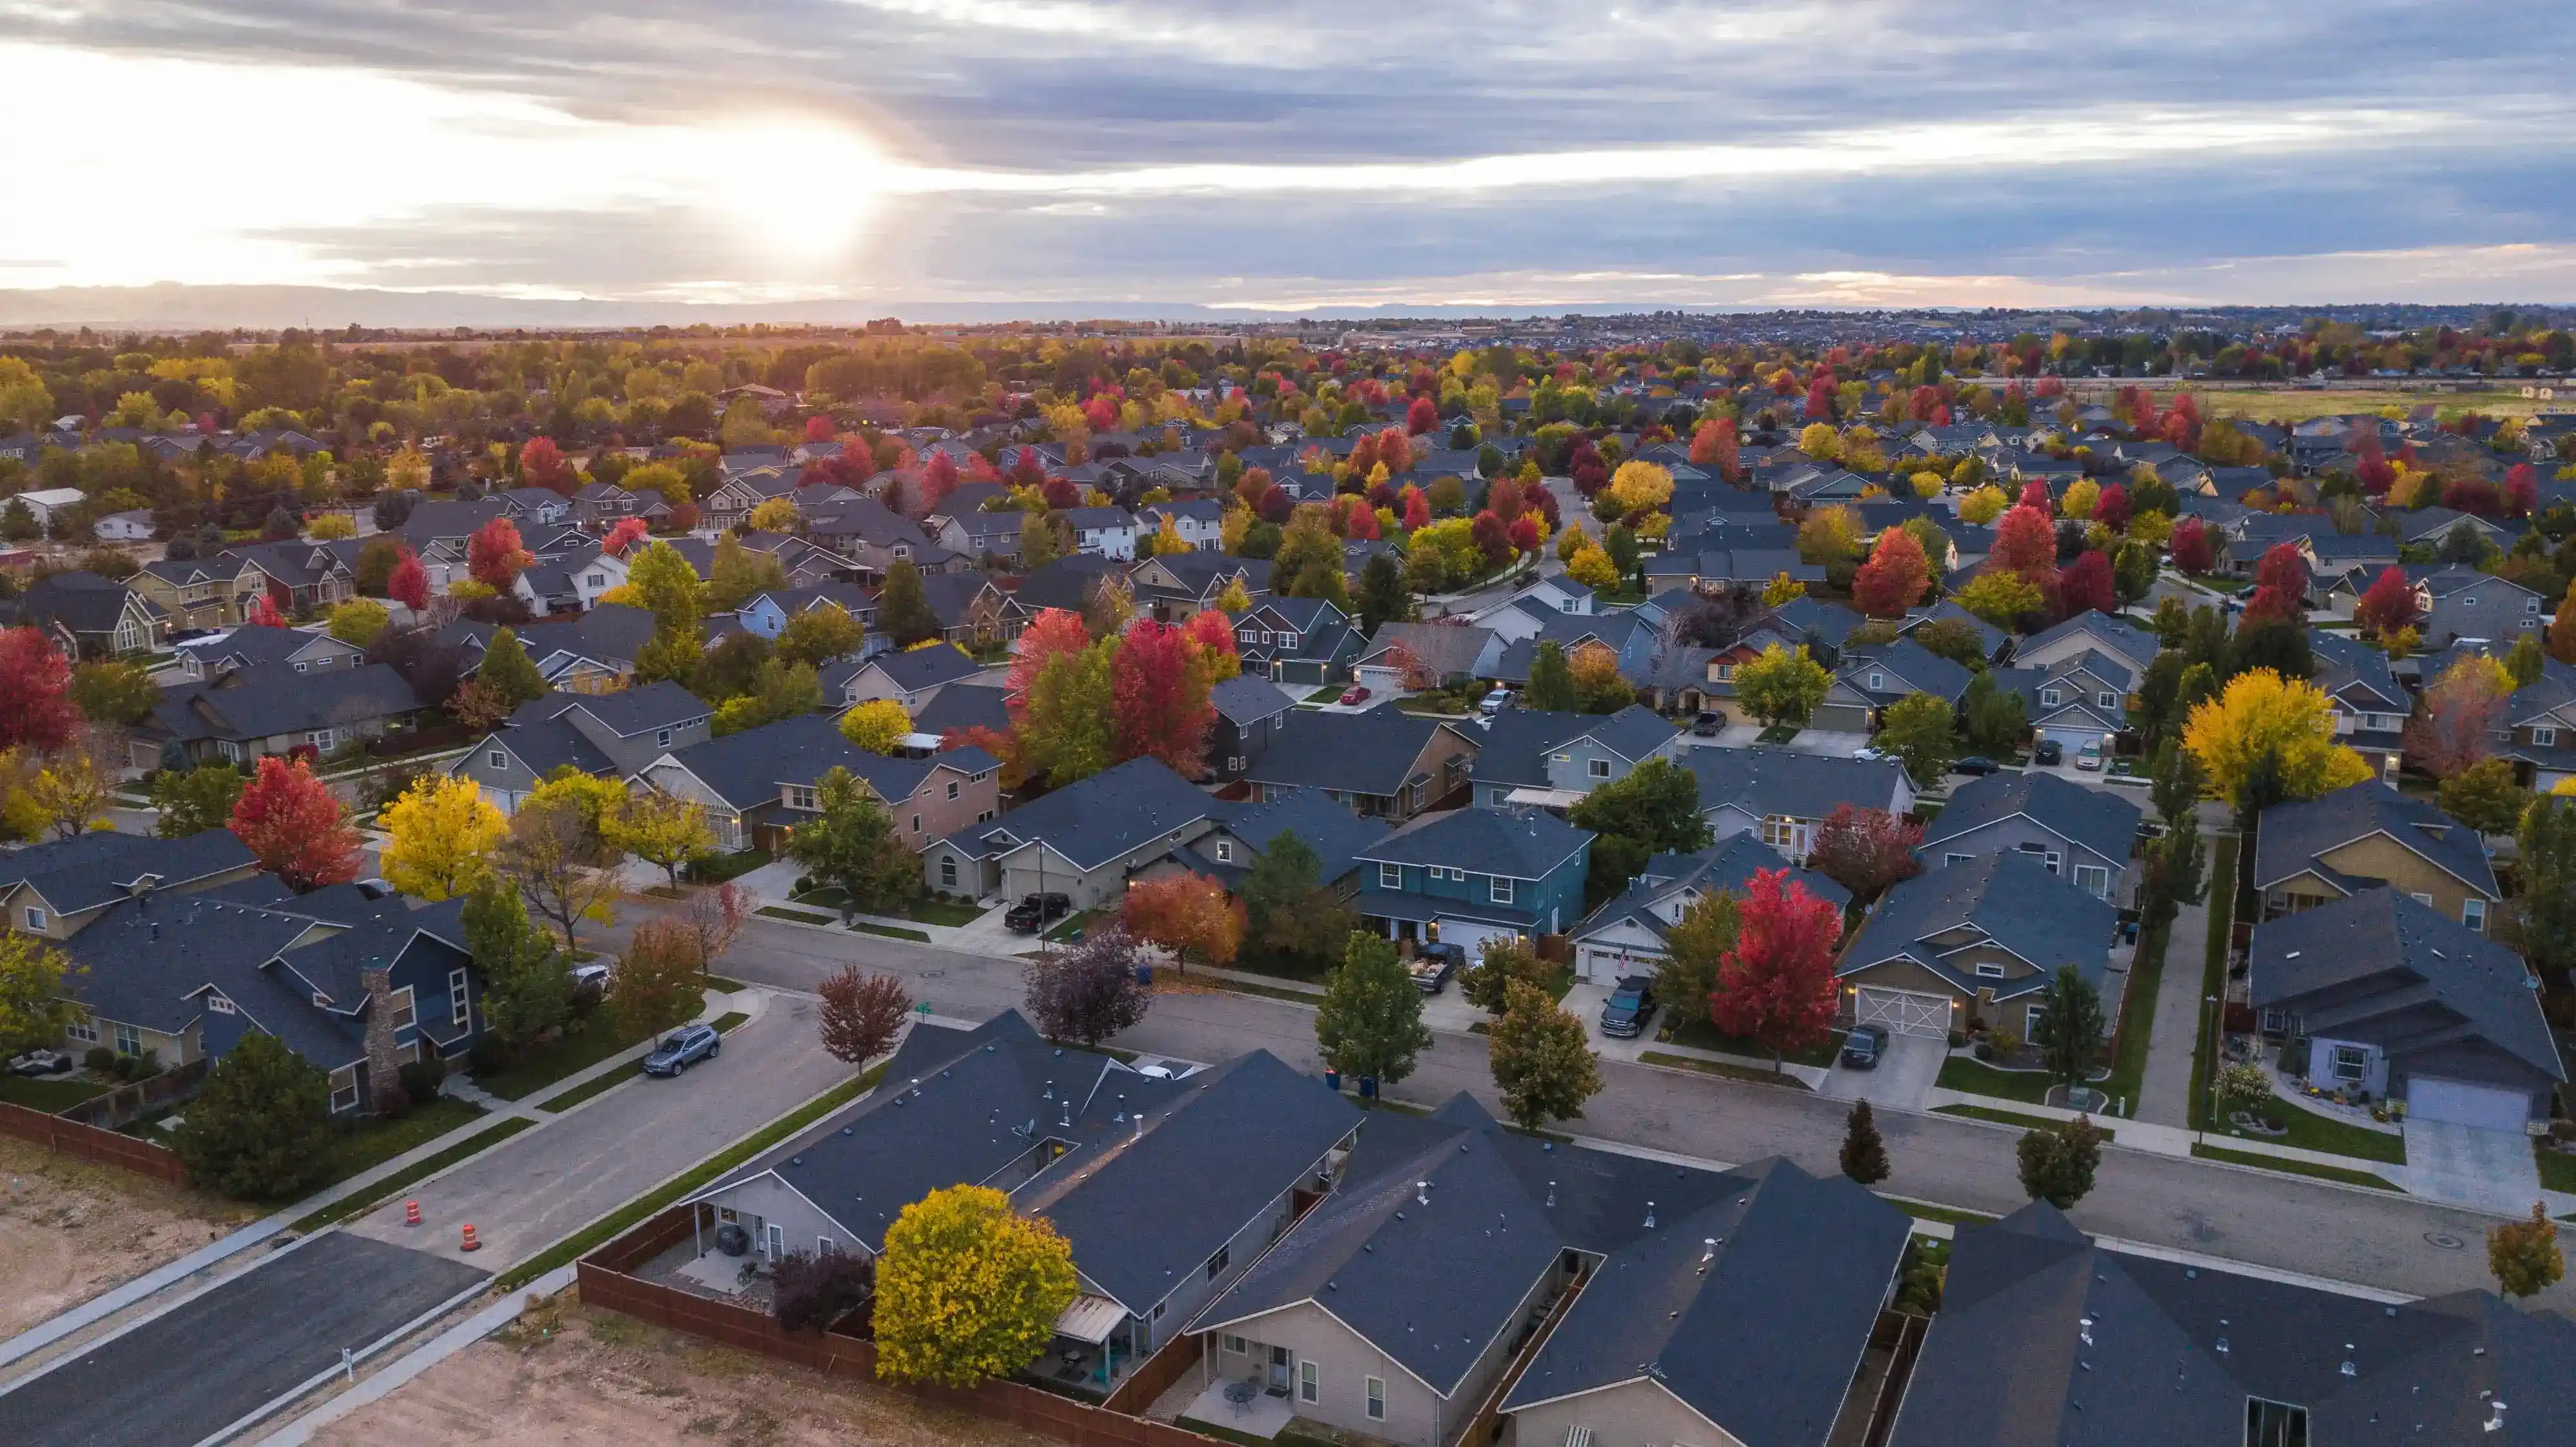
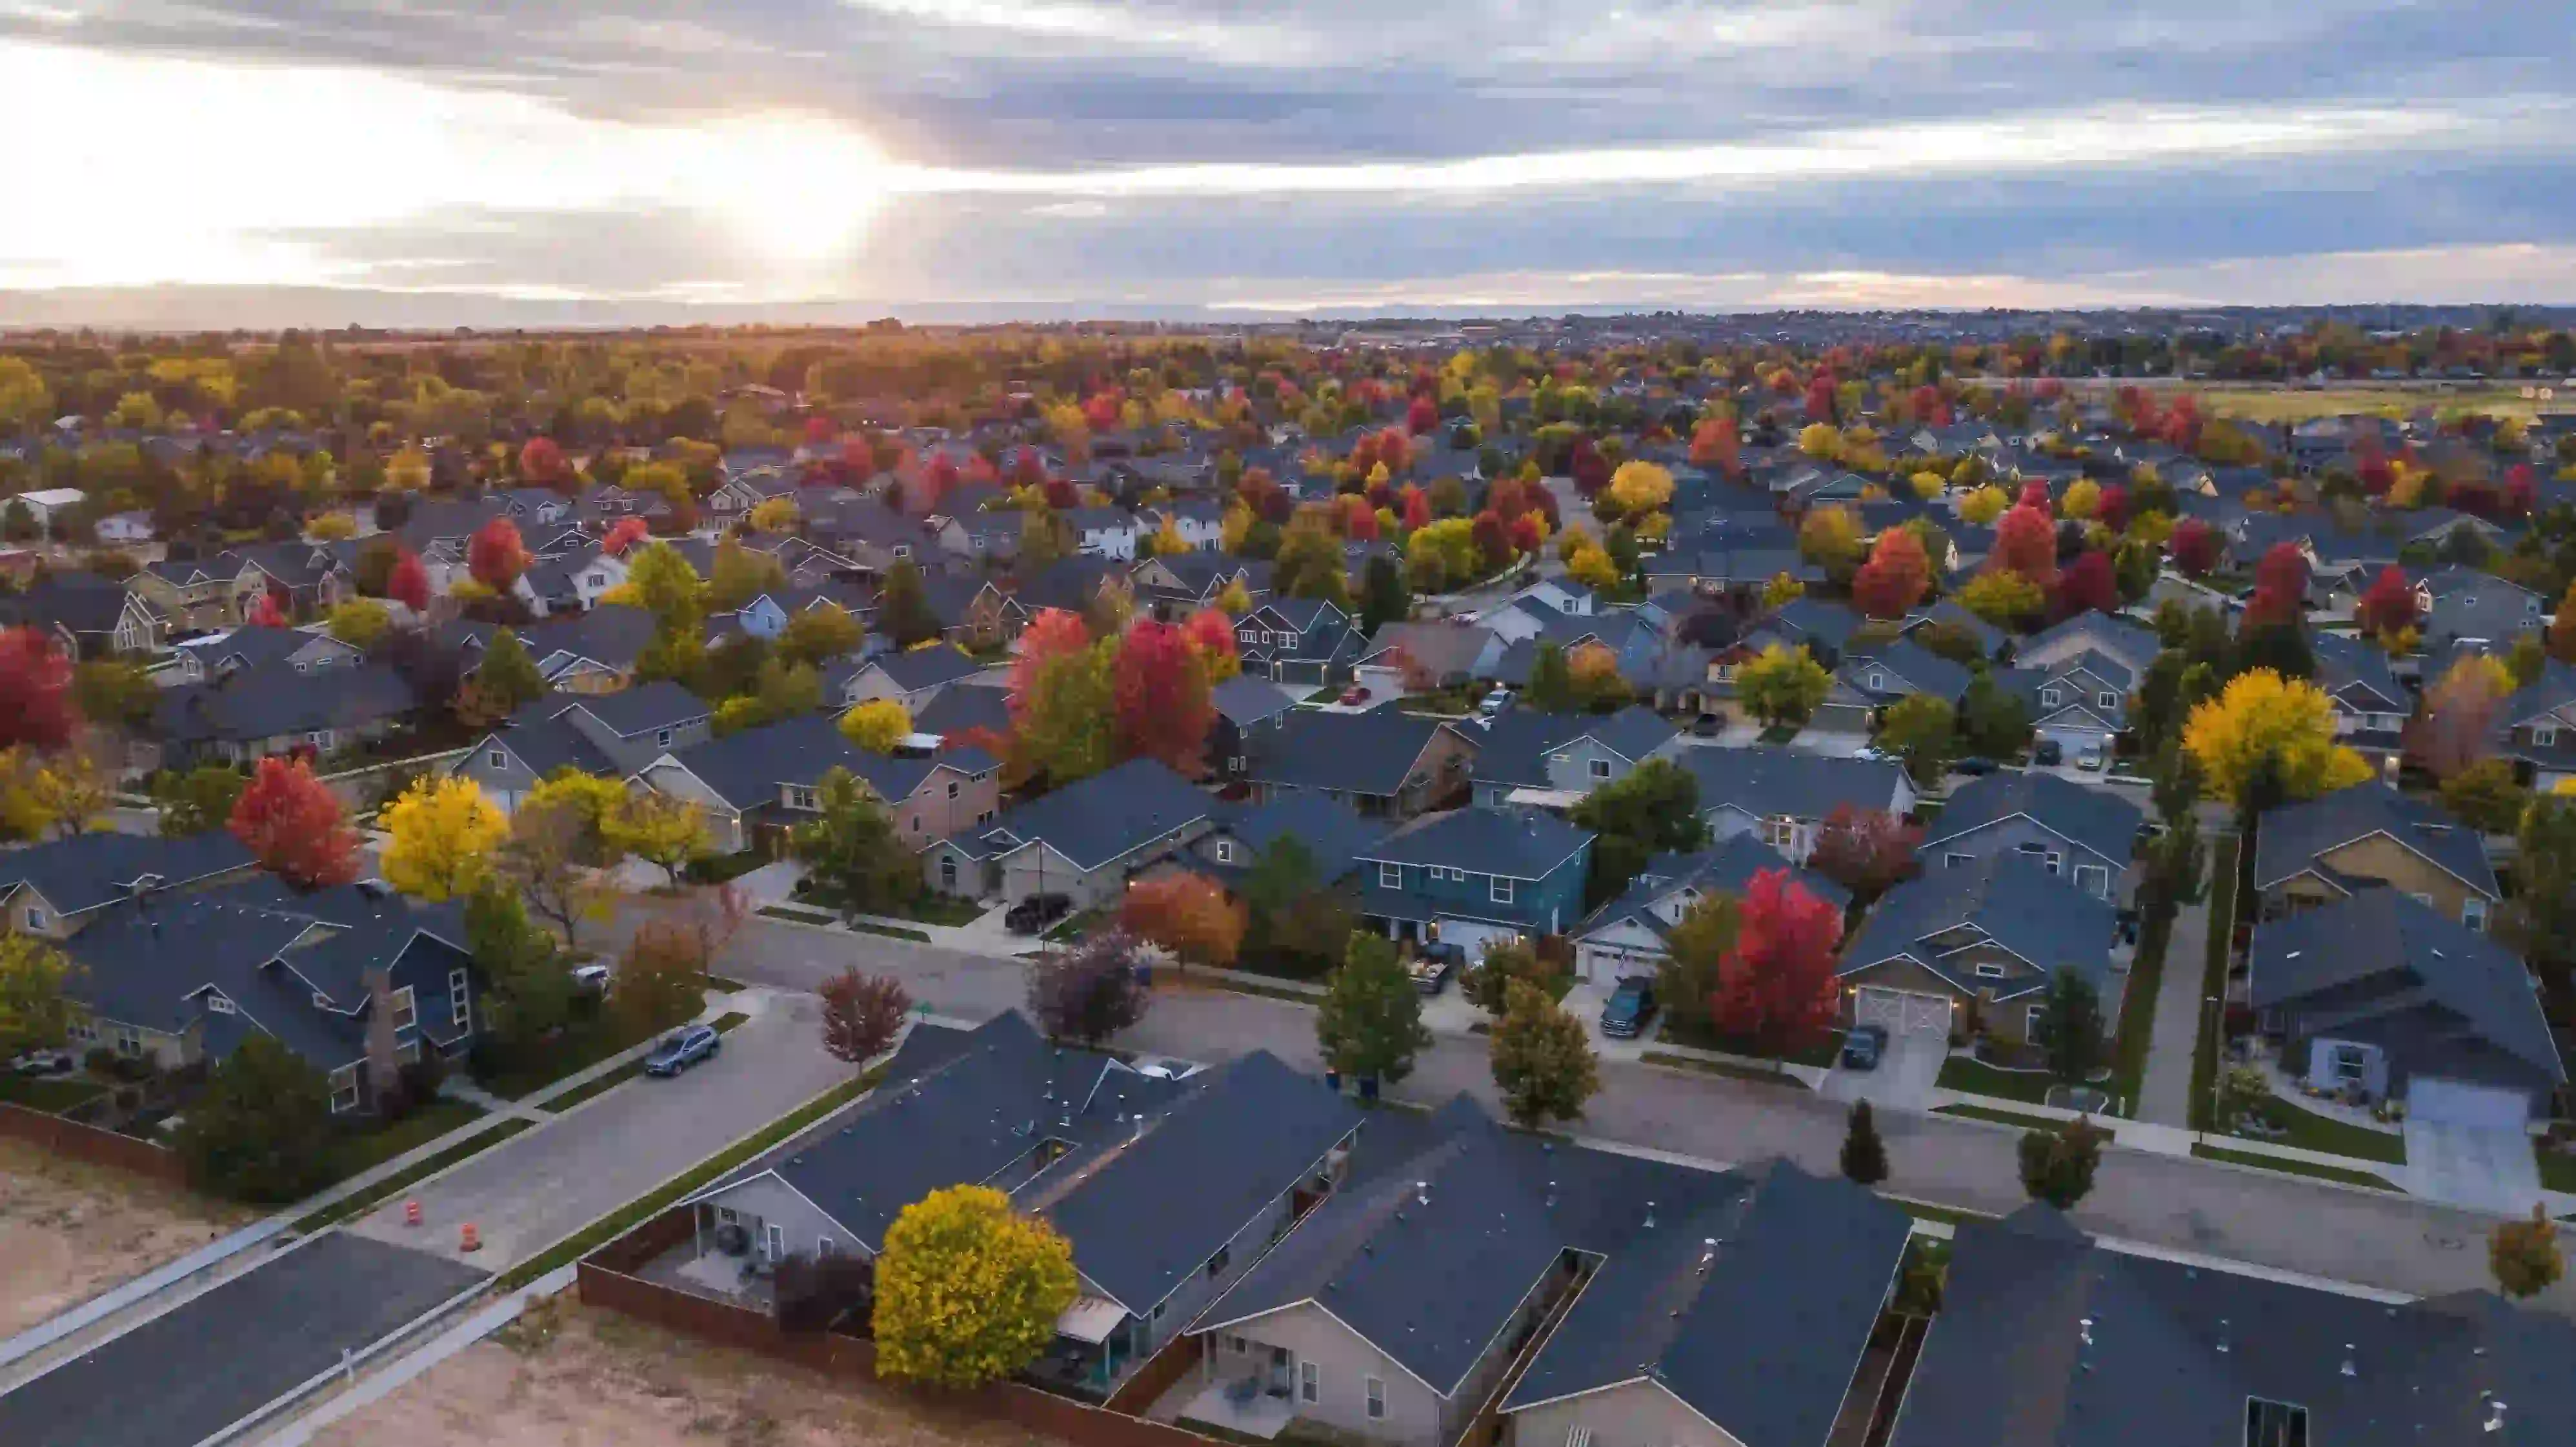
Performance and accessibility: cache headers, image compression, ARIA fix, GPU animations
- Add .htaccess cache-control (1yr images, 1mo CSS/JS) + GZIP compression
- Compress fondo-forney.webp 361KB → 81KB, hero-tecnico.webp 203KB → 76KB
- Fix non-composited animations: badgePulse uses filter drop-shadow, cardGlow moves to ::before pseudo-element with opacity animation (both GPU-composited)
- Remove prohibited ARIA role="list" / role="listitem" from all 5 accordion FAQ sections (Accessibility 93 → 100)
- dateModified updated to 2026-05-27 on Dallas page

diff --git a/css/heshma.css b/css/heshma.css
@@ -616,22 +616,22 @@ button:focus:not(:focus-visible),
 /* Offer section keyframe animations. */
 @keyframes badgePulse {
 	0%, 100% {
-		box-shadow: 0 0 0 0 rgba(255, 163, 0, 0);
+		filter: drop-shadow(0 0 0px rgba(255, 163, 0, 0));
 	}
 	50% {
-		box-shadow: 0 0 10px 4px rgba(255, 163, 0, 0.45);
+		filter: drop-shadow(0 0 6px rgba(255, 163, 0, 0.6));
 	}
 }
 
 @keyframes cardGlow {
 	0% {
-		box-shadow: 0 22px 48px rgba(4, 26, 51, 0.38), 0 0 0 1px rgba(255, 163, 0, 0.0);
+		opacity: 0;
 	}
 	50% {
-		box-shadow: 0 22px 48px rgba(4, 26, 51, 0.38), 0 0 28px 4px rgba(255, 130, 0, 0.28);
+		opacity: 1;
 	}
 	100% {
-		box-shadow: 0 22px 48px rgba(4, 26, 51, 0.38), 0 0 18px 4px rgba(77, 182, 232, 0.22);
+		opacity: 0.6;
 	}
 }
 
@@ -642,6 +642,7 @@ button:focus:not(:focus-visible),
 }
 
 .offer-card {
+	position: relative;
 	max-width: 780px;
 	margin: 0 auto;
 	padding: 3rem 2.5rem;
@@ -650,8 +651,18 @@ button:focus:not(:focus-visible),
 	border: 1px solid rgba(255, 255, 255, 0.16);
 	-webkit-backdrop-filter: blur(4px);
 	backdrop-filter: blur(4px);
+	box-shadow: 0 22px 48px rgba(4, 26, 51, 0.38), 0 0 18px 4px rgba(255, 130, 0, 0.15);
 	color: var(--clean-white);
 	text-align: center;
+}
+
+.offer-card::before {
+	content: '';
+	position: absolute;
+	inset: 0;
+	border-radius: 1.5rem;
+	box-shadow: 0 0 28px 6px rgba(255, 130, 0, 0.3);
+	pointer-events: none;
 	animation: cardGlow 5s ease-in-out infinite alternate;
 }
 

diff --git a/index.html b/index.html
@@ -576,9 +576,9 @@
 					<h2 id="faq-title">Answers Before You Call</h2>
 					<p>Everything you need to know about HVAC service in Forney and East DFW — pricing, timing, and what to expect.</p>
 				</div>
-				<div class="accordion" id="faqAccordion" role="list">
+				<div class="accordion" id="faqAccordion">
 
-					<div class="accordion-item" role="listitem">
+					<div class="accordion-item">
 						<h3 class="accordion-header">
 							<button class="accordion-button" type="button" data-bs-toggle="collapse" data-bs-target="#faq1" aria-expanded="true" aria-controls="faq1">
 								How much does an HVAC service visit cost in Forney, TX?
@@ -591,7 +591,7 @@
 						</div>
 					</div>
 
-					<div class="accordion-item" role="listitem">
+					<div class="accordion-item">
 						<h3 class="accordion-header">
 							<button class="accordion-button collapsed" type="button" data-bs-toggle="collapse" data-bs-target="#faq2" aria-expanded="false" aria-controls="faq2">
 								How fast can you respond to HVAC emergencies?
@@ -604,7 +604,7 @@
 						</div>
 					</div>
 
-					<div class="accordion-item" role="listitem">
+					<div class="accordion-item">
 						<h3 class="accordion-header">
 							<button class="accordion-button collapsed" type="button" data-bs-toggle="collapse" data-bs-target="#faq3" aria-expanded="false" aria-controls="faq3">
 								Do you charge extra for nights, weekends, or holiday calls?
@@ -617,7 +617,7 @@
 						</div>
 					</div>
 
-					<div class="accordion-item" role="listitem">
+					<div class="accordion-item">
 						<h3 class="accordion-header">
 							<button class="accordion-button collapsed" type="button" data-bs-toggle="collapse" data-bs-target="#faq4" aria-expanded="false" aria-controls="faq4">
 								Should I repair or replace my AC unit?
@@ -630,7 +630,7 @@
 						</div>
 					</div>
 
-					<div class="accordion-item" role="listitem">
+					<div class="accordion-item">
 						<h3 class="accordion-header">
 							<button class="accordion-button collapsed" type="button" data-bs-toggle="collapse" data-bs-target="#faq5" aria-expanded="false" aria-controls="faq5">
 								How do I know if my ductwork needs replacing?
@@ -643,7 +643,7 @@
 						</div>
 					</div>
 
-					<div class="accordion-item" role="listitem">
+					<div class="accordion-item">
 						<h3 class="accordion-header">
 							<button class="accordion-button collapsed" type="button" data-bs-toggle="collapse" data-bs-target="#faq6" aria-expanded="false" aria-controls="faq6">
 								Is Heshma Air Conditioning licensed and insured in Texas?

diff --git a/ac-repair-dallas-tx.html b/ac-repair-dallas-tx.html
@@ -402,9 +402,9 @@
 					<h2 id="faq-title">Answers Before You Call</h2>
 					<p>Everything you need to know about HVAC service in Dallas, TX — pricing, timing, and what to expect.</p>
 				</div>
-				<div class="accordion" id="faqAccordion" role="list">
+				<div class="accordion" id="faqAccordion">
 
-				<div class="accordion-item" role="listitem">
+				<div class="accordion-item">
 					<h3 class="accordion-header">
 						<button class="accordion-button" type="button" data-bs-toggle="collapse" data-bs-target="#faq1" aria-expanded="true" aria-controls="faq1">
 							How much does AC repair cost in Dallas, TX?
@@ -417,7 +417,7 @@
 					</div>
 				</div>
 
-				<div class="accordion-item" role="listitem">
+				<div class="accordion-item">
 					<h3 class="accordion-header">
 						<button class="accordion-button collapsed" type="button" data-bs-toggle="collapse" data-bs-target="#faq2" aria-expanded="false" aria-controls="faq2">
 							Do you serve all areas of Dallas, TX?
@@ -430,7 +430,7 @@
 					</div>
 				</div>
 
-				<div class="accordion-item" role="listitem">
+				<div class="accordion-item">
 					<h3 class="accordion-header">
 						<button class="accordion-button collapsed" type="button" data-bs-toggle="collapse" data-bs-target="#faq3" aria-expanded="false" aria-controls="faq3">
 							Do you charge travel fees for Dallas calls?
@@ -443,7 +443,7 @@
 					</div>
 				</div>
 
-				<div class="accordion-item" role="listitem">
+				<div class="accordion-item">
 					<h3 class="accordion-header">
 						<button class="accordion-button collapsed" type="button" data-bs-toggle="collapse" data-bs-target="#faq4" aria-expanded="false" aria-controls="faq4">
 							How fast can you respond to Dallas HVAC emergencies?
@@ -456,7 +456,7 @@
 					</div>
 				</div>
 
-				<div class="accordion-item" role="listitem">
+				<div class="accordion-item">
 					<h3 class="accordion-header">
 						<button class="accordion-button collapsed" type="button" data-bs-toggle="collapse" data-bs-target="#faq5" aria-expanded="false" aria-controls="faq5">
 							Is Heshma Air Conditioning licensed to work in Dallas, TX?

diff --git a/ac-repair-forney-tx.html b/ac-repair-forney-tx.html
@@ -402,9 +402,9 @@
 					<h2 id="faq-title">Answers Before You Call</h2>
 					<p>Everything you need to know about HVAC service in Forney, TX — pricing, timing, and what to expect.</p>
 				</div>
-				<div class="accordion" id="faqAccordion" role="list">
+				<div class="accordion" id="faqAccordion">
 
-				<div class="accordion-item" role="listitem">
+				<div class="accordion-item">
 					<h3 class="accordion-header">
 						<button class="accordion-button" type="button" data-bs-toggle="collapse" data-bs-target="#faq1" aria-expanded="true" aria-controls="faq1">
 							How much does an HVAC service visit cost in Forney, TX?
@@ -417,7 +417,7 @@
 					</div>
 				</div>
 
-				<div class="accordion-item" role="listitem">
+				<div class="accordion-item">
 					<h3 class="accordion-header">
 						<button class="accordion-button collapsed" type="button" data-bs-toggle="collapse" data-bs-target="#faq2" aria-expanded="false" aria-controls="faq2">
 							How fast can you respond to emergencies in Forney, TX?
@@ -430,7 +430,7 @@
 					</div>
 				</div>
 
-				<div class="accordion-item" role="listitem">
+				<div class="accordion-item">
 					<h3 class="accordion-header">
 						<button class="accordion-button collapsed" type="button" data-bs-toggle="collapse" data-bs-target="#faq3" aria-expanded="false" aria-controls="faq3">
 							Do you charge extra for evenings, weekends, or holidays?
@@ -443,7 +443,7 @@
 					</div>
 				</div>
 
-				<div class="accordion-item" role="listitem">
+				<div class="accordion-item">
 					<h3 class="accordion-header">
 						<button class="accordion-button collapsed" type="button" data-bs-toggle="collapse" data-bs-target="#faq4" aria-expanded="false" aria-controls="faq4">
 							Should I repair or replace my AC unit?
@@ -456,7 +456,7 @@
 					</div>
 				</div>
 
-				<div class="accordion-item" role="listitem">
+				<div class="accordion-item">
 					<h3 class="accordion-header">
 						<button class="accordion-button collapsed" type="button" data-bs-toggle="collapse" data-bs-target="#faq5" aria-expanded="false" aria-controls="faq5">
 							Is Heshma Air Conditioning licensed and insured in Texas?

diff --git a/ac-repair-heath-tx.html b/ac-repair-heath-tx.html
@@ -402,9 +402,9 @@
 					<h2 id="faq-title">Answers Before You Call</h2>
 					<p>Everything you need to know about HVAC service in Heath, TX — pricing, timing, and what to expect.</p>
 				</div>
-				<div class="accordion" id="faqAccordion" role="list">
+				<div class="accordion" id="faqAccordion">
 
-				<div class="accordion-item" role="listitem">
+				<div class="accordion-item">
 					<h3 class="accordion-header">
 						<button class="accordion-button" type="button" data-bs-toggle="collapse" data-bs-target="#faq1" aria-expanded="true" aria-controls="faq1">
 							How much does HVAC service cost in Heath, TX?
@@ -417,7 +417,7 @@
 					</div>
 				</div>
 
-				<div class="accordion-item" role="listitem">
+				<div class="accordion-item">
 					<h3 class="accordion-header">
 						<button class="accordion-button collapsed" type="button" data-bs-toggle="collapse" data-bs-target="#faq2" aria-expanded="false" aria-controls="faq2">
 							How fast can you get to Heath, TX for an HVAC call?
@@ -430,7 +430,7 @@
 					</div>
 				</div>
 
-				<div class="accordion-item" role="listitem">
+				<div class="accordion-item">
 					<h3 class="accordion-header">
 						<button class="accordion-button collapsed" type="button" data-bs-toggle="collapse" data-bs-target="#faq3" aria-expanded="false" aria-controls="faq3">
 							Do you charge travel fees for Heath, TX?
@@ -443,7 +443,7 @@
 					</div>
 				</div>
 
-				<div class="accordion-item" role="listitem">
+				<div class="accordion-item">
 					<h3 class="accordion-header">
 						<button class="accordion-button collapsed" type="button" data-bs-toggle="collapse" data-bs-target="#faq4" aria-expanded="false" aria-controls="faq4">
 							Do you serve Heath 75032 for emergency calls?
@@ -456,7 +456,7 @@
 					</div>
 				</div>
 
-				<div class="accordion-item" role="listitem">
+				<div class="accordion-item">
 					<h3 class="accordion-header">
 						<button class="accordion-button collapsed" type="button" data-bs-toggle="collapse" data-bs-target="#faq5" aria-expanded="false" aria-controls="faq5">
 							Is Heshma Air Conditioning licensed for HVAC in Heath, TX?

diff --git a/ac-repair-mesquite-tx.html b/ac-repair-mesquite-tx.html
@@ -402,9 +402,9 @@
 					<h2 id="faq-title">Answers Before You Call</h2>
 					<p>Everything you need to know about HVAC service in Mesquite, TX — pricing, timing, and what to expect.</p>
 				</div>
-				<div class="accordion" id="faqAccordion" role="list">
+				<div class="accordion" id="faqAccordion">
 
-				<div class="accordion-item" role="listitem">
+				<div class="accordion-item">
 					<h3 class="accordion-header">
 						<button class="accordion-button" type="button" data-bs-toggle="collapse" data-bs-target="#faq1" aria-expanded="true" aria-controls="faq1">
 							How much does AC repair cost in Mesquite, TX?
@@ -417,7 +417,7 @@
 					</div>
 				</div>
 
-				<div class="accordion-item" role="listitem">
+				<div class="accordion-item">
 					<h3 class="accordion-header">
 						<button class="accordion-button collapsed" type="button" data-bs-toggle="collapse" data-bs-target="#faq2" aria-expanded="false" aria-controls="faq2">
 							Do you serve Mesquite, TX 75149?
@@ -430,7 +430,7 @@
 					</div>
 				</div>
 
-				<div class="accordion-item" role="listitem">
+				<div class="accordion-item">
 					<h3 class="accordion-header">
 						<button class="accordion-button collapsed" type="button" data-bs-toggle="collapse" data-bs-target="#faq3" aria-expanded="false" aria-controls="faq3">
 							How fast can you respond to HVAC emergencies in Mesquite?
@@ -443,7 +443,7 @@
 					</div>
 				</div>
 
-				<div class="accordion-item" role="listitem">
+				<div class="accordion-item">
 					<h3 class="accordion-header">
 						<button class="accordion-button collapsed" type="button" data-bs-toggle="collapse" data-bs-target="#faq4" aria-expanded="false" aria-controls="faq4">
 							Do you charge travel fees to Mesquite, TX?
@@ -456,7 +456,7 @@
 					</div>
 				</div>
 
-				<div class="accordion-item" role="listitem">
+				<div class="accordion-item">
 					<h3 class="accordion-header">
 						<button class="accordion-button collapsed" type="button" data-bs-toggle="collapse" data-bs-target="#faq5" aria-expanded="false" aria-controls="faq5">
 							Is Heshma Air Conditioning licensed to work in Mesquite, TX?